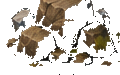
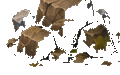
feat(map): coastal village — real coastline, lapping waves, honest cutouts
Art-direction pass from user review ("coastal village, not a town on a
frisbee of green; cutouts must be clean"):

Coast & water
- COASTLINE: hand-laid headlands and coves (21 vertices, midpoint-smoothed)
  replace the smooth oval. The east headland carries the lighthouse; the
  south-east bay shelters the docks and boats.
- Shallow turquoise water bands hug the shore; slow dashed foam rings drift
  outward and fade — waves lapping the whole outskirt.

Paths
- The scattered grey cobble patches are gone. Worn dirt lanes (thin,
  midpoint-curved, layered edge+core) now knit the village together, and each
  lane appears only once the building it leads to is restored.

Cutouts (slicer)
- global_key(): sweeps panel-navy out of interior gaps (tree canopies, rock
  crevices) that the edge flood can never reach — the dark boxes under the
  copses are gone.
- Ruin ghosts render through a cached radial alpha mask (ruinShade), so the
  scene-panel slices' rectangular backdrops dissolve instead of reading as
  dark boxes on the meadow/sky.
- Trees/rocks moved onto land to follow the new coastline; walkers scaled to
  ~a quarter of a cottage height (reference scale).

Verified via Playwright screenshots at delivered 2/6/24, noon + night, plus
checkerboard sprite inspection. Known remaining (regeneration list, not
threshold-fixable): market/townhall/fisherhut are painted scene-vignettes,
npc_man trouser folds, bakery backdrop trace against sky.

diff --git a/src/ui/map-view.ts b/src/ui/map-view.ts
@@ -29,6 +29,36 @@ const STAGE_NAMES = [
   'Beacon of Emberhollow',
 ] as const;
 
+/**
+ * Emberhollow's coastline, clockwise from the west edge — hand-laid headlands
+ * and coves (normalized coords) so the island reads as a real shore the sea
+ * works against, never a smooth oval. The east headland carries the
+ * lighthouse; the south-east bay shelters the docks and moored boats.
+ */
+const COASTLINE: readonly [number, number][] = [
+  [-0.08, 0.52], // west, off-canvas
+  [0.05, 0.44],  // north-west headland
+  [0.14, 0.465], // cove
+  [0.26, 0.395], // rise toward the wooded north
+  [0.38, 0.415], // small cove
+  [0.52, 0.355], // north headland behind the town hall
+  [0.64, 0.39],  // dip
+  [0.76, 0.385], // rise
+  [0.88, 0.43],  // running out to the lighthouse point
+  [1.02, 0.47],  // east headland, off-canvas
+  [1.09, 0.60],
+  [1.04, 0.74],  // south-east turn
+  [0.90, 0.855], // dock bay, east side
+  [0.80, 0.825], // dock headland
+  [0.68, 0.895], // sheltered bay for the fishing boats
+  [0.55, 0.925], // south beach
+  [0.42, 0.895],
+  [0.30, 0.935], // south cove
+  [0.16, 0.895],
+  [0.04, 0.925], // south-west
+  [-0.08, 0.80], // west, off-canvas
+];
+
 export class MapView {
   private canvas: HTMLCanvasElement | null = null;
   private ctx: CanvasRenderingContext2D | null = null;
@@ -41,6 +71,8 @@ export class MapView {
   private sprites = new Map<string, HTMLImageElement>();
   /** Recently-appeared building pop-in animations (art id -> start ms). */
   private appeared = new Map<string, number>();
+  /** Pre-masked storm-worn ruin renders (art id -> offscreen canvas). */
+  private ruinCache = new Map<string, HTMLCanvasElement>();
   private lastOrderIndex = -1;
   /** Last-drawn building rectangles for tap-to-inspect. */
   private hitboxes: { x0: number; y0: number; x1: number; y1: number; art: string; unlockAt: number }[] = [];
@@ -81,6 +113,34 @@ export class MapView {
   /** 0..4 homestead stage, spread across the full MVP story. */
   private stage(): number {
     return stageFor(this.game.snapshot.orderIndex);
+  }
+
+  /**
+   * A storm-worn shade of a not-yet-restored building: sepia-shadowed and
+   * faded out radially, so the source slice's rectangular vignette backdrop
+   * never reads as a box on the meadow or against the sky.
+   */
+  private ruinShade(img: HTMLImageElement, art: string): HTMLCanvasElement {
+    const hit = this.ruinCache.get(art);
+    if (hit) return hit;
+    const c = document.createElement('canvas');
+    c.width = img.naturalWidth;
+    c.height = img.naturalHeight;
+    const g = c.getContext('2d')!;
+    g.filter = 'sepia(0.45) saturate(0.6) brightness(0.5) contrast(0.95)';
+    g.drawImage(img, 0, 0);
+    g.filter = 'none';
+    g.globalCompositeOperation = 'destination-in';
+    const m = g.createRadialGradient(
+      c.width / 2, c.height * 0.55, Math.min(c.width, c.height) * 0.2,
+      c.width / 2, c.height * 0.55, Math.max(c.width, c.height) * 0.62,
+    );
+    m.addColorStop(0, 'rgba(0,0,0,1)');
+    m.addColorStop(1, 'rgba(0,0,0,0)');
+    g.fillStyle = m;
+    g.fillRect(0, 0, c.width, c.height);
+    this.ruinCache.set(art, c);
+    return c;
   }
 
   /** How the world feels right now: real weather + the player's day. */
@@ -568,17 +628,54 @@ export class MapView {
         }
       }
     }
+    // A real coastline, not an oval: hand-laid headlands and coves smoothed
+    // through midpoints. `inset` scales the ring outward (+) / inward (−)
+    // from the island's heart, so rim/sand/meadow layers nest cleanly.
     const island = (inset: number) => {
+      const cx = W * 0.5;
+      const cy = H * 0.65;
       ctx.beginPath();
-      ctx.moveTo(-W * 0.05 - inset, H * 0.46);
-      ctx.quadraticCurveTo(W * 0.2, H * 0.36 - inset, W * 0.5, H * 0.37 - inset);
-      ctx.quadraticCurveTo(W * 0.82, H * 0.36 - inset, W * 1.02 + inset, H * 0.5);
-      ctx.lineTo(W * 1.05 + inset, H * 0.82);
-      ctx.quadraticCurveTo(W * 0.7, H * 0.94 + inset, W * 0.4, H * 0.9 + inset);
-      ctx.quadraticCurveTo(W * 0.08, H * 0.88 + inset, -W * 0.05 - inset, H * 0.78);
+      const pts = COASTLINE.map(([px, py]) => {
+        const x = px * W;
+        const y = py * H;
+        const d = Math.hypot(x - cx, y - cy) || 1;
+        const k = 1 + inset / d;
+        return [cx + (x - cx) * k, cy + (y - cy) * k] as const;
+      });
+      const n = pts.length;
+      ctx.moveTo((pts[0]![0] + pts[n - 1]![0]) / 2, (pts[0]![1] + pts[n - 1]![1]) / 2);
+      for (let i = 0; i < n; i++) {
+        const p = pts[i]!;
+        const q = pts[(i + 1) % n]!;
+        ctx.quadraticCurveTo(p[0], p[1], (p[0] + q[0]) / 2, (p[1] + q[1]) / 2);
+      }
       ctx.closePath();
     };
-    // --- the island as a real landmass, not a flat cut-out ---
+    // --- the island as a real landmass rising out of the sea ---
+    // shallow turquoise water hugs the shore before the land begins
+    island(16);
+    ctx.fillStyle = night ? 'rgba(40, 80, 95, 0.35)' : 'rgba(88, 158, 165, 0.35)';
+    ctx.fill();
+    island(8);
+    ctx.fillStyle = night ? 'rgba(52, 96, 110, 0.4)' : 'rgba(116, 182, 182, 0.4)';
+    ctx.fill();
+    // waves lap the whole outskirt: slow foam rings drift out and fade
+    if (!this.reduce) {
+      ctx.save();
+      for (const ph of [0, 0.45]) {
+        const u = (t / 3200 + ph) % 1;
+        island(3 + u * 15);
+        ctx.strokeStyle = night
+          ? `rgba(190, 215, 235, ${(0.28 * (1 - u)).toFixed(3)})`
+          : `rgba(240, 250, 252, ${(0.34 * (1 - u)).toFixed(3)})`;
+        ctx.lineWidth = 1.8 - u;
+        ctx.setLineDash([16, 11]);
+        ctx.lineDashOffset = t / 70 + ph * 40;
+        ctx.stroke();
+      }
+      ctx.setLineDash([]);
+      ctx.restore();
+    }
     // rocky, wet under-rim in shadow
     island(5);
     ctx.fillStyle = night ? '#2c281f' : '#3f382c';
@@ -650,6 +747,51 @@ export class MapView {
       ctx.globalAlpha = 1;
     }
     ctx.restore();
+
+    // --- worn dirt paths grow WITH the town: each lane appears only when the
+    // building it leads to has been restored (a path to nowhere reads wrong) ---
+    {
+      const routes: { at: number; pts: [number, number][] }[] = [
+        { at: 2, pts: [[0.47, 0.64], [0.36, 0.59], [0.27, 0.545]] },                 // heart → cottage
+        { at: 8, pts: [[0.475, 0.655], [0.46, 0.55], [0.44, 0.465]] },               // well → market
+        { at: 12, pts: [[0.44, 0.465], [0.505, 0.40]] },                             // market → town hall
+        { at: 15, pts: [[0.27, 0.545], [0.17, 0.455]] },                             // cottage → workshop
+        { at: 16, pts: [[0.13, 0.655], [0.24, 0.625], [0.36, 0.615], [0.47, 0.64]] },// farm → heart
+        { at: 18, pts: [[0.49, 0.65], [0.62, 0.53], [0.72, 0.63], [0.84, 0.60]] },   // heart → bakery → garden → hut
+        { at: 21, pts: [[0.36, 0.615], [0.30, 0.70], [0.335, 0.735]] },              // → sawmill / forge
+        { at: 22, pts: [[0.52, 0.685], [0.66, 0.77], [0.78, 0.85]] },                // heart → the docks
+        { at: 23, pts: [[0.52, 0.685], [0.575, 0.75]] },                             // → library
+      ];
+      ctx.save();
+      island(-3);
+      ctx.clip();
+      ctx.lineCap = 'round';
+      ctx.lineJoin = 'round';
+      const layers: [number, string][] = [
+        [W * 0.024, night ? 'rgba(26, 22, 15, 0.30)' : 'rgba(122, 98, 62, 0.30)'], // soft shadowed edge
+        [W * 0.014, night ? 'rgba(150, 132, 98, 0.4)' : 'rgba(205, 178, 128, 0.7)'], // warm trodden dirt
+      ];
+      for (const [lw, col] of layers) {
+        ctx.strokeStyle = col;
+        ctx.lineWidth = lw;
+        for (const r of routes) {
+          if (delivered < r.at) continue;
+          const pts = r.pts;
+          ctx.beginPath();
+          ctx.moveTo(pts[0]![0] * W, pts[0]![1] * H);
+          // gentle midpoint curves so lanes wander like trodden dirt, not rulers
+          for (let i = 1; i < pts.length - 1; i++) {
+            const p = pts[i]!;
+            const q = pts[i + 1]!;
+            ctx.quadraticCurveTo(p[0] * W, p[1] * H, ((p[0] + q[0]) / 2) * W, ((p[1] + q[1]) / 2) * H);
+          }
+          const last = pts[pts.length - 1]!;
+          ctx.lineTo(last[0] * W, last[1] * H);
+          ctx.stroke();
+        }
+      }
+      ctx.restore();
+    }
 
     // --- boats first (they sit on the water behind the shore) ---
     for (const b of TOWN_BOATS) {
@@ -746,11 +888,11 @@ export class MapView {
       }
       if (p.ruined) {
         // storm-worn, not a grey ghost: keep the building's warmth but drop it
-        // into shadow so the restored ones sing. A soft dark base grounds it.
+        // into shadow. Rendered through a radial mask so the slice's square
+        // vignette backdrop dissolves — only the building's shade lingers.
         ctx.save();
-        ctx.globalAlpha = 0.5;
-        ctx.filter = 'sepia(0.45) saturate(0.6) brightness(0.5) contrast(0.95)';
-        ctx.drawImage(img, p.x * W - w / 2, p.y * H - h, w, h);
+        ctx.globalAlpha = 0.55;
+        ctx.drawImage(this.ruinShade(img, artId), p.x * W - w / 2, p.y * H - h, w, h);
         ctx.restore();
         continue;
       }
@@ -862,7 +1004,8 @@ export class MapView {
       const b = wk.path[seg + 1]!;
       const x = (a.x + (b.x - a.x) * local) * W;
       const y = (a.y + (b.y - a.y) * local) * H;
-      const w = 0.034 * W;
+      // map-scale people: ~a quarter of a cottage's height, like the reference
+      const w = 0.027 * W;
       const h = w * (img.naturalHeight / img.naturalWidth);
       const facingLeft = b.x < a.x !== phase >= 1;
       ctx.save();

diff --git a/src/data/town-layout.ts b/src/data/town-layout.ts
@@ -86,18 +86,18 @@ export const TOWN_NATURE: readonly (TownPiece & { stage: number })[] = [
   { art: 'prop_rock', x: 0.05, y: 0.47, w: 0.05, unlockAt: 0, stage: 0 },
   { art: 'prop_rock', x: 0.94, y: 0.68, w: 0.045, unlockAt: 0, stage: 0 },
   // the storm bent the trees but didn't take them — a fresh island still lives
-  { art: 'tree_pine', x: 0.1, y: 0.44, w: 0.045, unlockAt: 0, stage: 0 },
-  { art: 'tree_pine', x: 0.705, y: 0.415, w: 0.04, unlockAt: 0, stage: 0 },
+  { art: 'tree_pine', x: 0.105, y: 0.485, w: 0.045, unlockAt: 0, stage: 0 },
+  { art: 'tree_pine', x: 0.705, y: 0.44, w: 0.04, unlockAt: 0, stage: 0 },
   { art: 'tree_bush', x: 0.875, y: 0.5, w: 0.05, unlockAt: 0, stage: 0 },
   { art: 'tree_bush', x: 0.24, y: 0.62, w: 0.045, unlockAt: 0, stage: 0 },
   { art: 'prop_rock', x: 0.31, y: 0.815, w: 0.04, unlockAt: 0, stage: 0 },
   { art: 'prop_barrel', x: 0.585, y: 0.55, w: 0.03, unlockAt: 0, stage: 0 },
-  { art: 'tree_pine', x: 0.045, y: 0.4, w: 0.05, unlockAt: 0, stage: 1 },
-  { art: 'tree_oak', x: 0.665, y: 0.395, w: 0.07, unlockAt: 0, stage: 1 },
-  { art: 'tree_pine', x: 0.315, y: 0.37, w: 0.05, unlockAt: 0, stage: 2 },
+  { art: 'tree_pine', x: 0.05, y: 0.47, w: 0.05, unlockAt: 0, stage: 1 },
+  { art: 'tree_oak', x: 0.665, y: 0.425, w: 0.07, unlockAt: 0, stage: 1 },
+  { art: 'tree_pine', x: 0.315, y: 0.425, w: 0.05, unlockAt: 0, stage: 2 },
   { art: 'prop_lamp', x: 0.565, y: 0.47, w: 0.028, unlockAt: 0, stage: 2 },
   { art: 'prop_lamp', x: 0.44, y: 0.56, w: 0.028, unlockAt: 0, stage: 2 },
-  { art: 'tree_oak', x: 0.935, y: 0.45, w: 0.065, unlockAt: 0, stage: 2 },
+  { art: 'tree_oak', x: 0.935, y: 0.48, w: 0.065, unlockAt: 0, stage: 2 },
   { art: 'tree_bush', x: 0.35, y: 0.585, w: 0.055, unlockAt: 0, stage: 3 },
   { art: 'tree_flowerbush', x: 0.6, y: 0.6, w: 0.06, unlockAt: 0, stage: 3 },
   { art: 'prop_bench', x: 0.52, y: 0.665, w: 0.06, unlockAt: 0, stage: 3 },
@@ -120,12 +120,13 @@ export const TOWN_TERRAIN: readonly TownPiece[] = [
   { art: 'terrain_rocks', x: 0.955, y: 0.66, w: 0.085, unlockAt: 0 },
   { art: 'terrain_rocks', x: 0.24, y: 0.9, w: 0.08, unlockAt: 0 },
   { art: 'terrain_rocks', x: 0.045, y: 0.755, w: 0.07, unlockAt: 0 },
-  { art: 'terrain_rocks', x: 0.88, y: 0.4, w: 0.065, unlockAt: 0 },
-  // wooded edges
-  { art: 'terrain_trees_l', x: 0.1, y: 0.435, w: 0.1, unlockAt: 0 },
-  { art: 'terrain_trees_s', x: 0.245, y: 0.365, w: 0.085, unlockAt: 0 },
-  { art: 'terrain_trees_l', x: 0.545, y: 0.315, w: 0.095, unlockAt: 0 },
-  { art: 'terrain_trees_s', x: 0.71, y: 0.345, w: 0.08, unlockAt: 0 },
+  { art: 'terrain_rocks', x: 0.895, y: 0.455, w: 0.065, unlockAt: 0 },
+  // wooded edges — y positions follow the COASTLINE headlands (map-view.ts)
+  // so every copse stands on land, never in the sky or the sea
+  { art: 'terrain_trees_l', x: 0.1, y: 0.48, w: 0.1, unlockAt: 0 },
+  { art: 'terrain_trees_s', x: 0.235, y: 0.465, w: 0.085, unlockAt: 0 },
+  { art: 'terrain_trees_l', x: 0.615, y: 0.41, w: 0.095, unlockAt: 0 },
+  { art: 'terrain_trees_s', x: 0.735, y: 0.425, w: 0.08, unlockAt: 0 },
   { art: 'terrain_trees_l', x: 0.93, y: 0.5, w: 0.09, unlockAt: 0 },
   { art: 'terrain_bush', x: 0.165, y: 0.575, w: 0.06, unlockAt: 0 },
   { art: 'terrain_bush', x: 0.62, y: 0.565, w: 0.06, unlockAt: 0 },
@@ -134,11 +135,8 @@ export const TOWN_TERRAIN: readonly TownPiece[] = [
   { art: 'terrain_grass', x: 0.665, y: 0.775, w: 0.075, unlockAt: 0 },
   { art: 'terrain_flowers1', x: 0.3, y: 0.665, w: 0.06, unlockAt: 0 },
   { art: 'terrain_flowers2', x: 0.845, y: 0.63, w: 0.06, unlockAt: 0 },
-  // stone paths knit the square together once rebuilding begins
-  { art: 'terrain_path', x: 0.345, y: 0.505, w: 0.085, unlockAt: 1 },
-  { art: 'terrain_path', x: 0.445, y: 0.545, w: 0.085, unlockAt: 1 },
-  { art: 'terrain_path', x: 0.55, y: 0.515, w: 0.085, unlockAt: 1 },
-  { art: 'terrain_path', x: 0.525, y: 0.63, w: 0.08, unlockAt: 1 },
+  // (the old scattered cobble patches are gone — the map now draws worn dirt
+  // lanes that grow with the town; see the routes table in map-view.ts)
   // the harbour reaches into the water at the south-east
   { art: 'dock_straight', x: 0.775, y: 0.905, w: 0.1, unlockAt: 0 },
   { art: 'dock_end', x: 0.865, y: 0.925, w: 0.075, unlockAt: 0 },

diff --git a/tools/slice_assets.py b/tools/slice_assets.py
@@ -57,6 +57,11 @@ TOLERANCE: dict[str, int] = {}
 KEYCOLOR: dict[str, tuple] = {}
 # ids multiplied by a brightness factor after cropping (e.g. dark checker tile)
 DARKEN: dict[str, float] = {}
+# ids whose key colour is swept EVERYWHERE (not just edge-connected): sprites
+# with interior gaps — tree canopies, rock clusters — trap panel colour in
+# holes the edge flood can't reach. Swept tightly so dark art pixels survive.
+GLOBALKEY: dict[str, tuple] = {}
+GLOBALKEY_TOL = 20
 
 
 def remove_bg(im: Image.Image, tolerance: int = 52, key: tuple | None = None) -> Image.Image:
@@ -86,6 +91,20 @@ def remove_bg(im: Image.Image, tolerance: int = 52, key: tuple | None = None) ->
             if 0 <= nx < w and 0 <= ny < h and not seen[ny * w + nx] and close(px[nx, ny]):
                 seen[ny * w + nx] = 1
                 stack.append((nx, ny))
+    return im
+
+
+def global_key(im: Image.Image, key: tuple, tol: int = GLOBALKEY_TOL) -> Image.Image:
+    """Clear EVERY pixel within `tol` of `key`, connectivity be damned — for
+    interior panel remnants hiding in canopy gaps and rock crevices."""
+    im = im.convert("RGBA")
+    px = im.load()
+    w, h = im.size
+    for y in range(h):
+        for x in range(w):
+            p = px[x, y]
+            if p[3] and (p[0] - key[0]) ** 2 + (p[1] - key[1]) ** 2 + (p[2] - key[2]) ** 2 <= tol * tol:
+                px[x, y] = (0, 0, 0, 0)
     return im
 
 
@@ -207,7 +226,10 @@ def slice_all() -> None:
             opened[key] = Image.open(SRC / SHEETS[key]).convert("RGBA")
         im = opened[key].crop(box)
         if ident in KEYED:
-            im = defringe(remove_bg(im, TOLERANCE.get(ident, 52), KEYCOLOR.get(ident)))
+            im = remove_bg(im, TOLERANCE.get(ident, 52), KEYCOLOR.get(ident))
+            if ident in GLOBALKEY:
+                im = global_key(im, GLOBALKEY[ident])
+            im = defringe(im)
         if ident.startswith(("item_", "res_", "action_", "energy_")):
             im = clean_sprite(im)
         elif ident.startswith("town_"):
@@ -447,6 +469,10 @@ def define() -> None:
         TOLERANCE[t] = 30  # dark foliage/rock on navy panels — key gently
     for t in ("terrain_trees_l", "terrain_trees_s", "terrain_bush"):
         TOLERANCE[t] = 38  # panels must go; canopy greens survive this
+    for t in ("terrain_trees_l", "terrain_trees_s", "terrain_bush", "terrain_rocks"):
+        # sweep navy remnants out of canopy gaps / rock crevices (tight tol,
+        # everywhere — the edge flood can't reach interior holes)
+        GLOBALKEY[t] = (16, 30, 34)
 
     # ---- corepack5 (Core/MVP.png): the canonical grid board (merge area) ----
     add("corepack5", {"board_grass": (773, 500, 1172, 760)})
